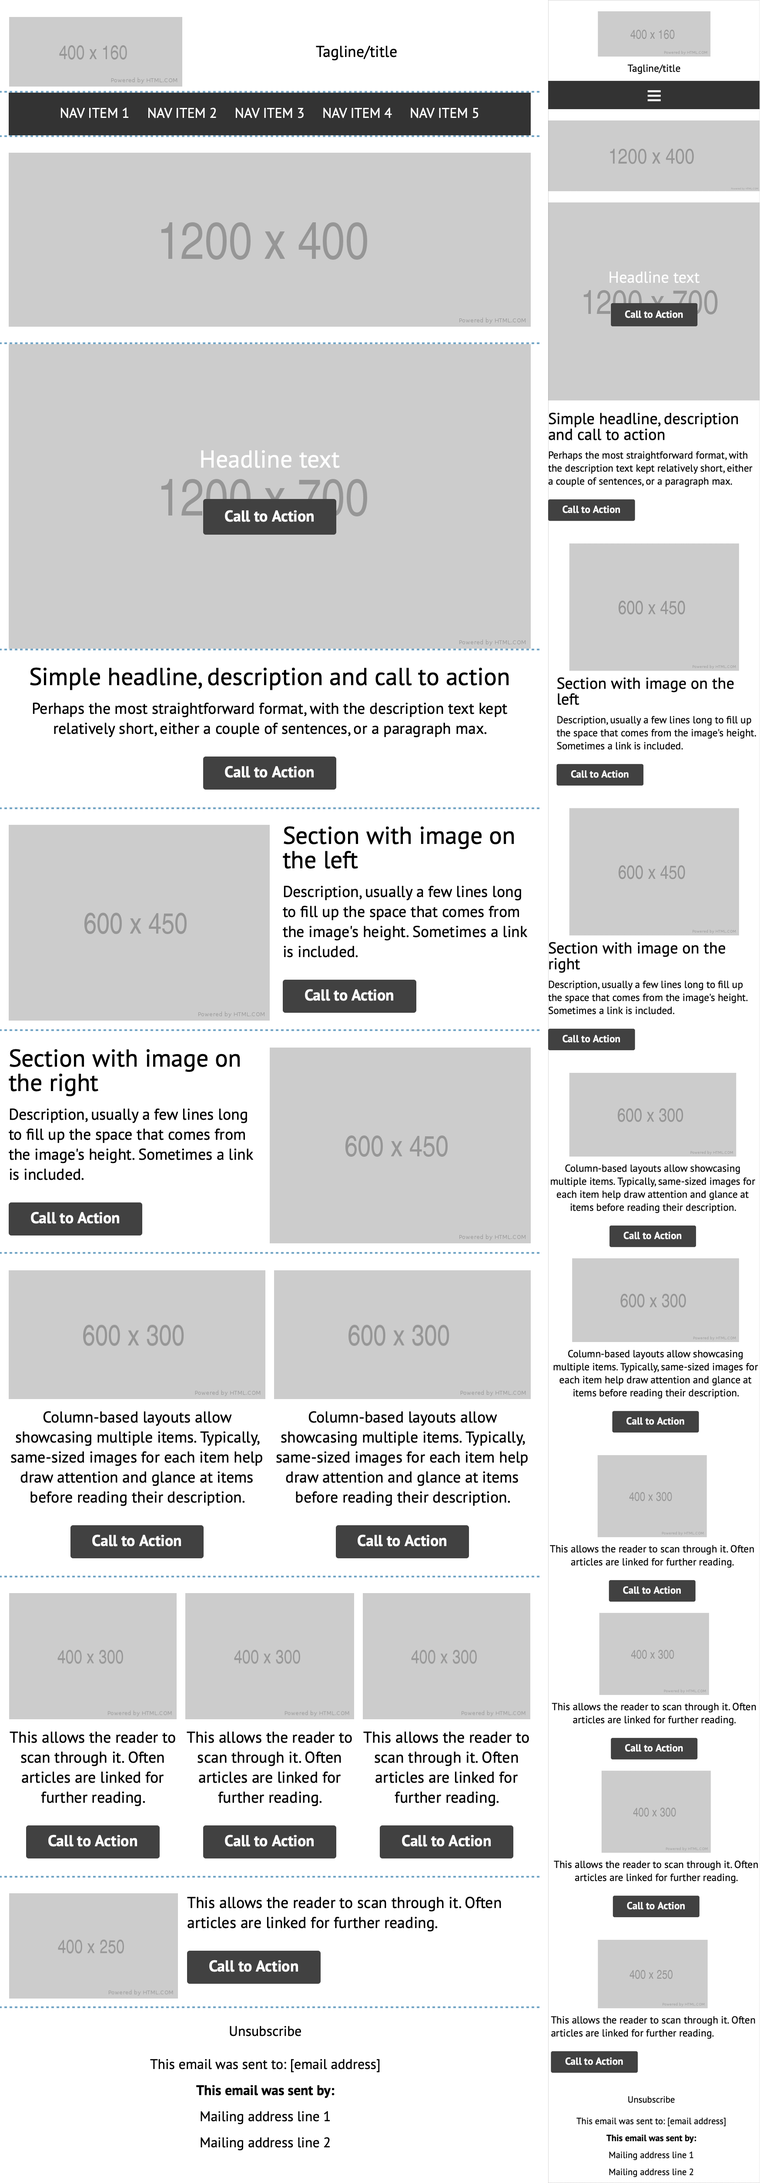
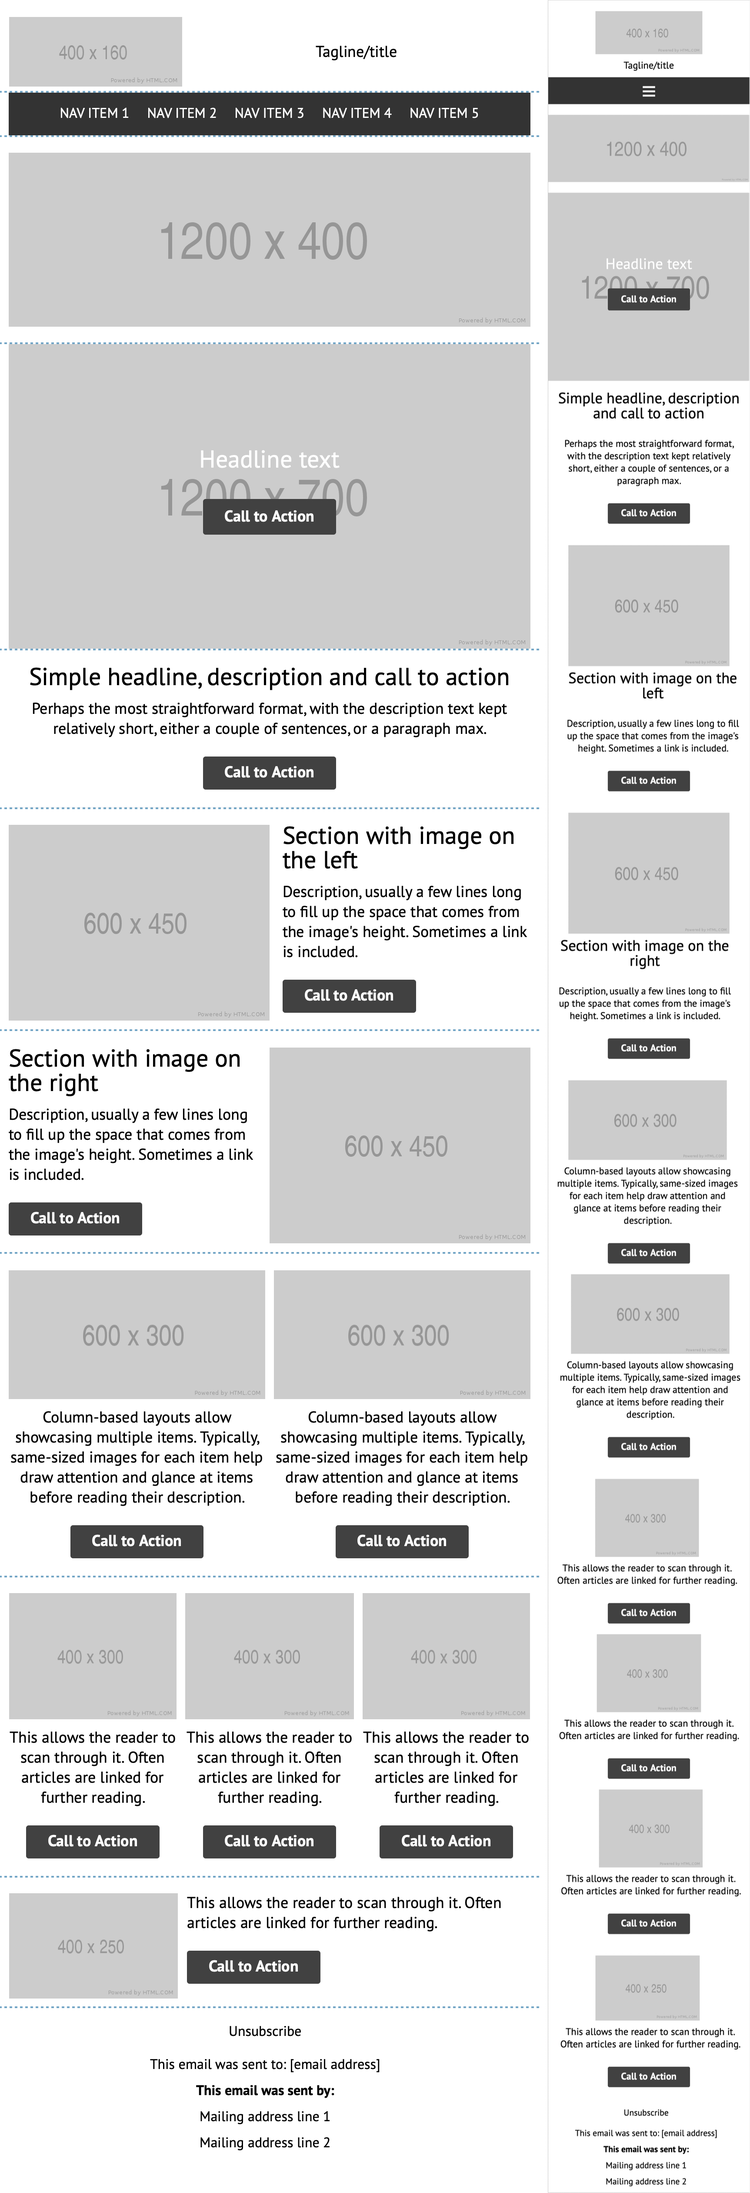
Fixes mobile padding issues
Updates template preview screenshot, makes nav items removable in Blocks Edit

diff --git a/blocks-starter.html b/blocks-starter.html
@@ -52,9 +52,6 @@
       display: block;
       margin: 13px 0;
     }
-    .desktop-hide{
-      display: none;
-    }
   </style>
   <!--[if !mso]><!-->
   <style type="text/css">
@@ -117,14 +114,10 @@
       }
       .text-center{
         text-align: center !important;
-        padding: 0px 15px !important;
+        padding: 0px 15px 20px 15px !important;
       }
       .button-center{
         margin: 0 auto; !important;
-      }
-      .desktop-hide{
-        display: table-cell !important;
-        width: 41%;
       }
     }
 
@@ -405,7 +398,7 @@
              style="padding:15px 10px;" class=""
           >
         
-    <![endif]--><a class="mj-link" href="https://blocksedit.com/#" target="_blank" style="-block-edit: true; display: inline-block; color: #ffffff; font-family: 'Myriad Pro','PT Sans',Arial,Helvetica,sans-serif; font-size: 16px; font-weight: normal; line-height: 22.4px%; text-decoration: none; text-transform: uppercase; padding: 15px 10px;">
+    <![endif]--><a class="mj-link block-region block-remove" href="https://blocksedit.com/#" target="_blank" style="-block-edit: true; display: inline-block; color: #ffffff; font-family: 'Myriad Pro','PT Sans',Arial,Helvetica,sans-serif; font-size: 16px; font-weight: normal; line-height: 22.4px%; text-decoration: none; text-transform: uppercase; padding: 15px 10px;">
         Nav item 2
       </a>
                           <!--[if mso | IE]>
@@ -418,7 +411,7 @@
              style="padding:15px 10px;" class=""
           >
         
-    <![endif]--><a class="mj-link" href="https://blocksedit.com/#" target="_blank" style="-block-edit: true; display: inline-block; color: #ffffff; font-family: 'Myriad Pro','PT Sans',Arial,Helvetica,sans-serif; font-size: 16px; font-weight: normal; line-height: 22.4px%; text-decoration: none; text-transform: uppercase; padding: 15px 10px;">
+    <![endif]--><a class="mj-link block-region block-remove" href="https://blocksedit.com/#" target="_blank" style="-block-edit: true; display: inline-block; color: #ffffff; font-family: 'Myriad Pro','PT Sans',Arial,Helvetica,sans-serif; font-size: 16px; font-weight: normal; line-height: 22.4px%; text-decoration: none; text-transform: uppercase; padding: 15px 10px;">
         Nav item 3
       </a>
                           <!--[if mso | IE]>
@@ -431,7 +424,7 @@
              style="padding:15px 10px;" class=""
           >
         
-    <![endif]--><a class="mj-link" href="https://blocksedit.com/#" target="_blank" style="-block-edit: true; display: inline-block; color: #ffffff; font-family: 'Myriad Pro','PT Sans',Arial,Helvetica,sans-serif; font-size: 16px; font-weight: normal; line-height: 22.4px%; text-decoration: none; text-transform: uppercase; padding: 15px 10px;">
+    <![endif]--><a class="mj-link block-region block-remove" href="https://blocksedit.com/#" target="_blank" style="-block-edit: true; display: inline-block; color: #ffffff; font-family: 'Myriad Pro','PT Sans',Arial,Helvetica,sans-serif; font-size: 16px; font-weight: normal; line-height: 22.4px%; text-decoration: none; text-transform: uppercase; padding: 15px 10px;">
         Nav item 4
       </a>
                           <!--[if mso | IE]>
@@ -444,7 +437,7 @@
              style="padding:15px 10px;" class=""
           >
         
-    <![endif]--><a class="mj-link" href="https://blocksedit.com/#" target="_blank" style="-block-edit: true; display: inline-block; color: #ffffff; font-family: 'Myriad Pro','PT Sans',Arial,Helvetica,sans-serif; font-size: 16px; font-weight: normal; line-height: 22.4px%; text-decoration: none; text-transform: uppercase; padding: 15px 10px;">
+    <![endif]--><a class="mj-link block-region block-remove" href="https://blocksedit.com/#" target="_blank" style="-block-edit: true; display: inline-block; color: #ffffff; font-family: 'Myriad Pro','PT Sans',Arial,Helvetica,sans-serif; font-size: 16px; font-weight: normal; line-height: 22.4px%; text-decoration: none; text-transform: uppercase; padding: 15px 10px;">
         Nav item 5
       </a>
                           <!--[if mso | IE]>
@@ -628,19 +621,18 @@
                   <table border="0" cellpadding="0" cellspacing="0" role="presentation" style="vertical-align:top;" width="100%">
                     <tr>
                       <td align="left" style="font-size:0px;padding:10px 25px;padding-top:0px;padding-right:0px;padding-bottom:10px;padding-left:0px;word-break:break-word;">
-                        <div data-block="basic-title" style="-block-edit: true; font-family:'Myriad Pro','PT Sans',Arial,Helvetica,sans-serif;font-size:28px;line-height:1;text-align:left;color:#000000;" class="text-center"> Simple headline, description and call to action </div>
+                        <div data-block="basic-title" class="text-center" style="-block-edit: true; font-family:'Myriad Pro','PT Sans',Arial,Helvetica,sans-serif;font-size:28px;line-height:1;text-align:left;color:#000000;"> Simple headline, description and call to action </div>
                       </td>
                     </tr>
                     <tr>
                       <td align="left" style="font-size:0px;padding:10px 25px;padding-top:0px;padding-right:0px;padding-bottom:10px;padding-left:0px;word-break:break-word;">
-                        <div data-block="basic-text" style="-block-edit: true; font-family:'Myriad Pro','PT Sans',Arial,Helvetica,sans-serif;font-size:18px;line-height:22.4px%;text-align:left;color:#000000;" class="text-center"> Perhaps the most straightforward format, with the description text kept relatively short, either a couple of sentences, or a paragraph max. </div>
+                        <div data-block="basic-text" class="text-center" style="-block-edit: true; font-family:'Myriad Pro','PT Sans',Arial,Helvetica,sans-serif;font-size:18px;line-height:22.4px%;text-align:left;color:#000000;"> Perhaps the most straightforward format, with the description text kept relatively short, either a couple of sentences, or a paragraph max. </div>
                       </td>
                     </tr>
                     <tr style="-block-region: true; -block-remove: true;">
-                      <td vertical-align="middle" class="edit-region edit-remove text-center" style="font-size:0px;padding:10px 25px;padding-bottom:20px;padding-left:0;word-break:break-word;">
-                        <table border="0" cellpadding="0" cellspacing="0" role="presentation" style="border-collapse:separate;line-height:100%;">
+                      <td vertical-align="middle" class="text-center edit-region edit-remove" style="font-size:0px;padding:10px 25px;padding-bottom:20px;padding-left:0;word-break:break-word;">
+                        <table border="0" cellpadding="0" cellspacing="0" role="presentation" class="button-center" style="border-collapse:separate;line-height:100%;">
                           <tr>
-                              <td class="desktop-hide"&nbsp;</td>
                             <td align="center" bgcolor="#414141" role="presentation" style="border:none;border-radius:3px;cursor:auto;padding:10px 25px;background:#414141;" valign="middle"> <a href="https://blocksedit.com/#" data-block="basic-button" style="-block-edit: true; background:#414141;color:#ffffff;font-family:'Myriad Pro','PT Sans',Arial,Helvetica,sans-serif;font-size:18px;font-weight:700;line-height:100%;Margin:0;text-decoration:none;text-transform:none;"
                                 target="_blank">
               Call to Action
@@ -695,17 +687,17 @@
                   <table border="0" cellpadding="0" cellspacing="0" role="presentation" style="vertical-align:top;" width="100%">
                     <tr>
                       <td align="center" style="font-size:0px;padding:10px 25px;padding-top:0px;padding-right:0px;padding-bottom:10px;padding-left:0px;word-break:break-word;">
-                        <div data-block="basic-title" style="-block-edit: true; font-family:'Myriad Pro','PT Sans',Arial,Helvetica,sans-serif;font-size:28px;line-height:1;text-align:center;color:#000000;"> Simple headline, description and call to action </div>
+                        <div data-block="basic-title" class="text-center" style="-block-edit: true; font-family:'Myriad Pro','PT Sans',Arial,Helvetica,sans-serif;font-size:28px;line-height:1;text-align:center;color:#000000;"> Simple headline, description and call to action </div>
                       </td>
                     </tr>
                     <tr>
                       <td align="center" style="font-size:0px;padding:10px 25px;padding-top:0px;padding-right:0px;padding-bottom:10px;padding-left:0px;word-break:break-word;">
-                        <div data-block="basic-text" style="-block-edit: true; font-family:'Myriad Pro','PT Sans',Arial,Helvetica,sans-serif;font-size:18px;line-height:22.4px%;text-align:center;color:#000000;"> Perhaps the most straightforward format, with the description text kept relatively short, either a couple of sentences, or a paragraph max. </div>
+                        <div data-block="basic-text" class="text-center" style="-block-edit: true; font-family:'Myriad Pro','PT Sans',Arial,Helvetica,sans-serif;font-size:18px;line-height:22.4px%;text-align:center;color:#000000;"> Perhaps the most straightforward format, with the description text kept relatively short, either a couple of sentences, or a paragraph max. </div>
                       </td>
                     </tr>
                     <tr style="-block-region: true; -block-remove: true;">
-                      <td align="center" vertical-align="middle" class="edit-region edit-remove" style="font-size:0px;padding:10px 25px;padding-right:0px;padding-bottom:20px;padding-left:0px;word-break:break-word;">
-                        <table border="0" cellpadding="0" cellspacing="0" role="presentation" style="border-collapse:separate;line-height:100%;">
+                      <td align="center" vertical-align="middle" class="text-center edit-region edit-remove" style="font-size:0px;padding:10px 25px;padding-right:0px;padding-bottom:20px;padding-left:0px;word-break:break-word;">
+                        <table border="0" cellpadding="0" cellspacing="0" role="presentation" class="button-center" style="border-collapse:separate;line-height:100%;">
                           <tr>
                             <td align="center" bgcolor="#414141" role="presentation" style="border:none;border-radius:3px;cursor:auto;padding:10px 25px;background:#414141;" valign="middle"> <a href="https://blocksedit.com/#" data-block="basic-button" style="-block-edit: true; background:#414141;color:#ffffff;font-family:'Myriad Pro','PT Sans',Arial,Helvetica,sans-serif;font-size:18px;font-weight:700;line-height:100%;Margin:0;text-decoration:none;text-transform:none;"
                                 target="_blank">
@@ -1092,12 +1084,12 @@
                     </tr>
                     <tr>
                       <td align="center" class="edit-text" style="font-size:0px;padding:10px 25px;padding-top:10px;padding-right:5px;padding-bottom:10px;padding-left:0px;word-break:break-word;">
-                        <div style="-block-edit: true; font-family: 'Myriad Pro','PT Sans',Arial,Helvetica,sans-serif; font-size: 18px; line-height: 22.4px%; text-align: center; color: #000000;"> Column-based layouts allow showcasing multiple items. Typically, same-sized images for each item help draw attention and glance at items before reading their description. </div>
+                        <div class="text-center" style="-block-edit: true; font-family: 'Myriad Pro','PT Sans',Arial,Helvetica,sans-serif; font-size: 18px; line-height: 22.4px%; text-align: center; color: #000000;"> Column-based layouts allow showcasing multiple items. Typically, same-sized images for each item help draw attention and glance at items before reading their description. </div>
                       </td>
                     </tr>
                     <tr style="-block-region: true; -block-remove: true;">
-                      <td align="center" vertical-align="middle" class="edit-button edit-region edit-remove" style="font-size:0px;padding:10px 25px;padding-right:5px;padding-bottom:20px;padding-left:0px;word-break:break-word;">
-                        <table border="0" cellpadding="0" cellspacing="0" role="presentation" style="border-collapse:separate;line-height:100%;">
+                      <td align="center" vertical-align="middle" class="text-center edit-button edit-region edit-remove" style="font-size:0px;padding:10px 25px;padding-right:5px;padding-bottom:20px;padding-left:0px;word-break:break-word;">
+                        <table border="0" cellpadding="0" cellspacing="0" role="presentation" class="button-center" style="border-collapse:separate;line-height:100%;">
                           <tr>
                             <td align="center" bgcolor="#414141" role="presentation" style="border:none;border-radius:3px;cursor:auto;padding:10px 25px;background:#414141;" valign="middle"> <a href="https://blocksedit.com/#" style="-block-edit: true; background: #414141; color: #ffffff; font-family: 'Myriad Pro','PT Sans',Arial,Helvetica,sans-serif; font-size: 18px; font-weight: 700; line-height: 100%; Margin: 0; text-decoration: none; text-transform: none;"
                                 target="_blank">
@@ -1135,12 +1127,12 @@
                     </tr>
                     <tr>
                       <td align="center" class="edit-text" style="font-size:0px;padding:10px 25px;padding-top:10px;padding-right:0px;padding-bottom:10px;padding-left:5px;word-break:break-word;">
-                        <div style="-block-edit: true; font-family: 'Myriad Pro','PT Sans',Arial,Helvetica,sans-serif; font-size: 18px; line-height: 22.4px%; text-align: center; color: #000000;"> Column-based layouts allow showcasing multiple items. Typically, same-sized images for each item help draw attention and glance at items before reading their description. </div>
+                        <div class="text-center" style="-block-edit: true; font-family: 'Myriad Pro','PT Sans',Arial,Helvetica,sans-serif; font-size: 18px; line-height: 22.4px%; text-align: center; color: #000000;"> Column-based layouts allow showcasing multiple items. Typically, same-sized images for each item help draw attention and glance at items before reading their description. </div>
                       </td>
                     </tr>
                     <tr style="-block-region: true; -block-remove: true;">
-                      <td align="center" vertical-align="middle" class="edit-button edit-region edit-remove" style="font-size:0px;padding:10px 25px;padding-right:0px;padding-bottom:20px;padding-left:5px;word-break:break-word;">
-                        <table border="0" cellpadding="0" cellspacing="0" role="presentation" style="border-collapse:separate;line-height:100%;">
+                      <td align="center" vertical-align="middle" class="text-center edit-button edit-region edit-remove" style="font-size:0px;padding:10px 25px;padding-right:0px;padding-bottom:20px;padding-left:5px;word-break:break-word;">
+                        <table border="0" cellpadding="0" cellspacing="0" role="presentation" class="button-center" style="border-collapse:separate;line-height:100%;">
                           <tr>
                             <td align="center" bgcolor="#414141" role="presentation" style="border:none;border-radius:3px;cursor:auto;padding:10px 25px;background:#414141;" valign="middle"> <a href="https://blocksedit.com/#" style="-block-edit: true; background: #414141; color: #ffffff; font-family: 'Myriad Pro','PT Sans',Arial,Helvetica,sans-serif; font-size: 18px; font-weight: 700; line-height: 100%; Margin: 0; text-decoration: none; text-transform: none;"
                                 target="_blank">
@@ -1211,12 +1203,12 @@
                     </tr>
                     <tr>
                       <td align="center" class="edit-text" style="font-size:0px;padding:10px 25px;padding-top:0px;padding-right:7px;padding-bottom:10px;padding-left:0px;word-break:break-word;">
-                        <div style="-block-edit: true; font-family: 'Myriad Pro','PT Sans',Arial,Helvetica,sans-serif; font-size: 18px; line-height: 22.4px%; text-align: center; color: #000000;"> This allows the reader to scan through it. Often articles are linked for further reading. </div>
+                        <div class="text-center" style="-block-edit: true; font-family: 'Myriad Pro','PT Sans',Arial,Helvetica,sans-serif; font-size: 18px; line-height: 22.4px%; text-align: center; color: #000000;"> This allows the reader to scan through it. Often articles are linked for further reading. </div>
                       </td>
                     </tr>
                     <tr style="-block-region: true; -block-remove: true;">
-                      <td align="center" vertical-align="middle" class="edit-button edit-region edit-remove" style="font-size:0px;padding:10px 25px;padding-right:7px;padding-bottom:20px;padding-left:0px;word-break:break-word;">
-                        <table border="0" cellpadding="0" cellspacing="0" role="presentation" style="border-collapse:separate;line-height:100%;">
+                      <td align="center" vertical-align="middle" class="text-center edit-button edit-region edit-remove" style="font-size:0px;padding:10px 25px;padding-right:7px;padding-bottom:20px;padding-left:0px;word-break:break-word;">
+                        <table border="0" cellpadding="0" cellspacing="0" role="presentation" class="button-center" style="border-collapse:separate;line-height:100%;">
                           <tr>
                             <td align="center" bgcolor="#414141" role="presentation" style="border:none;border-radius:3px;cursor:auto;padding:10px 25px;background:#414141;" valign="middle"> <a href="https://blocksedit.com/#" style="-block-edit: true; background: #414141; color: #ffffff; font-family: 'Myriad Pro','PT Sans',Arial,Helvetica,sans-serif; font-size: 18px; font-weight: 700; line-height: 100%; Margin: 0; text-decoration: none; text-transform: none;"
                                 target="_blank">
@@ -1254,12 +1246,12 @@
                     </tr>
                     <tr>
                       <td align="center" class="edit-text" style="font-size:0px;padding:10px 25px;padding-top:0px;padding-right:3px;padding-bottom:10px;padding-left:3px;word-break:break-word;">
-                        <div style="-block-edit: true; font-family: 'Myriad Pro','PT Sans',Arial,Helvetica,sans-serif; font-size: 18px; line-height: 22.4px%; text-align: center; color: #000000;"> This allows the reader to scan through it. Often articles are linked for further reading. </div>
+                        <div class="text-center" style="-block-edit: true; font-family: 'Myriad Pro','PT Sans',Arial,Helvetica,sans-serif; font-size: 18px; line-height: 22.4px%; text-align: center; color: #000000;"> This allows the reader to scan through it. Often articles are linked for further reading. </div>
                       </td>
                     </tr>
                     <tr style="-block-region: true; -block-remove: true;">
-                      <td align="center" vertical-align="middle" class="edit-button edit-region edit-remove" style="font-size:0px;padding:10px 25px;padding-right:3px;padding-bottom:20px;padding-left:3px;word-break:break-word;">
-                        <table border="0" cellpadding="0" cellspacing="0" role="presentation" style="border-collapse:separate;line-height:100%;">
+                      <td align="center" vertical-align="middle" class="text-center edit-button edit-region edit-remove" style="font-size:0px;padding:10px 25px;padding-right:3px;padding-bottom:20px;padding-left:3px;word-break:break-word;">
+                        <table border="0" cellpadding="0" cellspacing="0" role="presentation" class="button-center" style="border-collapse:separate;line-height:100%;">
                           <tr>
                             <td align="center" bgcolor="#414141" role="presentation" style="border:none;border-radius:3px;cursor:auto;padding:10px 25px;background:#414141;" valign="middle"> <a href="https://blocksedit.com/#" style="-block-edit: true; background: #414141; color: #ffffff; font-family: 'Myriad Pro','PT Sans',Arial,Helvetica,sans-serif; font-size: 18px; font-weight: 700; line-height: 100%; Margin: 0; text-decoration: none; text-transform: none;"
                                 target="_blank">
@@ -1297,12 +1289,12 @@
                     </tr>
                     <tr>
                       <td align="center" class="edit-text" style="font-size:0px;padding:10px 25px;padding-top:0px;padding-right:0px;padding-bottom:10px;padding-left:7px;word-break:break-word;">
-                        <div style="-block-edit: true; font-family: 'Myriad Pro','PT Sans',Arial,Helvetica,sans-serif; font-size: 18px; line-height: 22.4px%; text-align: center; color: #000000;"> This allows the reader to scan through it. Often articles are linked for further reading. </div>
+                        <div class="text-center" style="-block-edit: true; font-family: 'Myriad Pro','PT Sans',Arial,Helvetica,sans-serif; font-size: 18px; line-height: 22.4px%; text-align: center; color: #000000;"> This allows the reader to scan through it. Often articles are linked for further reading. </div>
                       </td>
                     </tr>
                     <tr style="-block-region: true; -block-remove: true;">
-                      <td align="center" vertical-align="middle" class="edit-button edit-region edit-remove" style="font-size:0px;padding:10px 25px;padding-right:0px;padding-bottom:20px;padding-left:7px;word-break:break-word;">
-                        <table border="0" cellpadding="0" cellspacing="0" role="presentation" style="border-collapse:separate;line-height:100%;">
+                      <td align="center" vertical-align="middle" class="text-center edit-button edit-region edit-remove" style="font-size:0px;padding:10px 25px;padding-right:0px;padding-bottom:20px;padding-left:7px;word-break:break-word;">
+                        <table border="0" cellpadding="0" cellspacing="0" role="presentation" class="button-center" style="border-collapse:separate;line-height:100%;">
                           <tr>
                             <td align="center" bgcolor="#414141" role="presentation" style="border:none;border-radius:3px;cursor:auto;padding:10px 25px;background:#414141;" valign="middle"> <a href="https://blocksedit.com/#" style="-block-edit: true; background: #414141; color: #ffffff; font-family: 'Myriad Pro','PT Sans',Arial,Helvetica,sans-serif; font-size: 18px; font-weight: 700; line-height: 100%; Margin: 0; text-decoration: none; text-transform: none;"
                                 target="_blank">
@@ -1389,9 +1381,8 @@
                     </tr>
                     <tr style="-block-region: true; -block-remove: true;">
                       <td align="left" vertical-align="middle" class="text-center edit-button edit-region edit-remove" style="font-size:0px;padding:10px 25px;padding-right:0px;padding-bottom:20px;padding-left:5px;word-break:break-word;">
-                        <table border="0" cellpadding="0" cellspacing="0" role="presentation" style="border-collapse:separate;line-height:100%;">
+                        <table border="0" cellpadding="0" cellspacing="0" role="presentation" class="button-center" style="border-collapse:separate;line-height:100%;">
                           <tr>
-                              <td class="desktop-hide"&nbsp;</td>
                             <td align="center" bgcolor="#414141" role="presentation" style="border:none;border-radius:3px;cursor:auto;padding:10px 25px;background:#414141;" valign="middle"> <a href="https://blocksedit.com/#" style="-block-edit: true; background: #414141; color: #ffffff; font-family: 'Myriad Pro','PT Sans',Arial,Helvetica,sans-serif; font-size: 18px; font-weight: 700; line-height: 100%; Margin: 0; text-decoration: none; text-transform: none;"
                                 target="_blank">
               Call to Action
